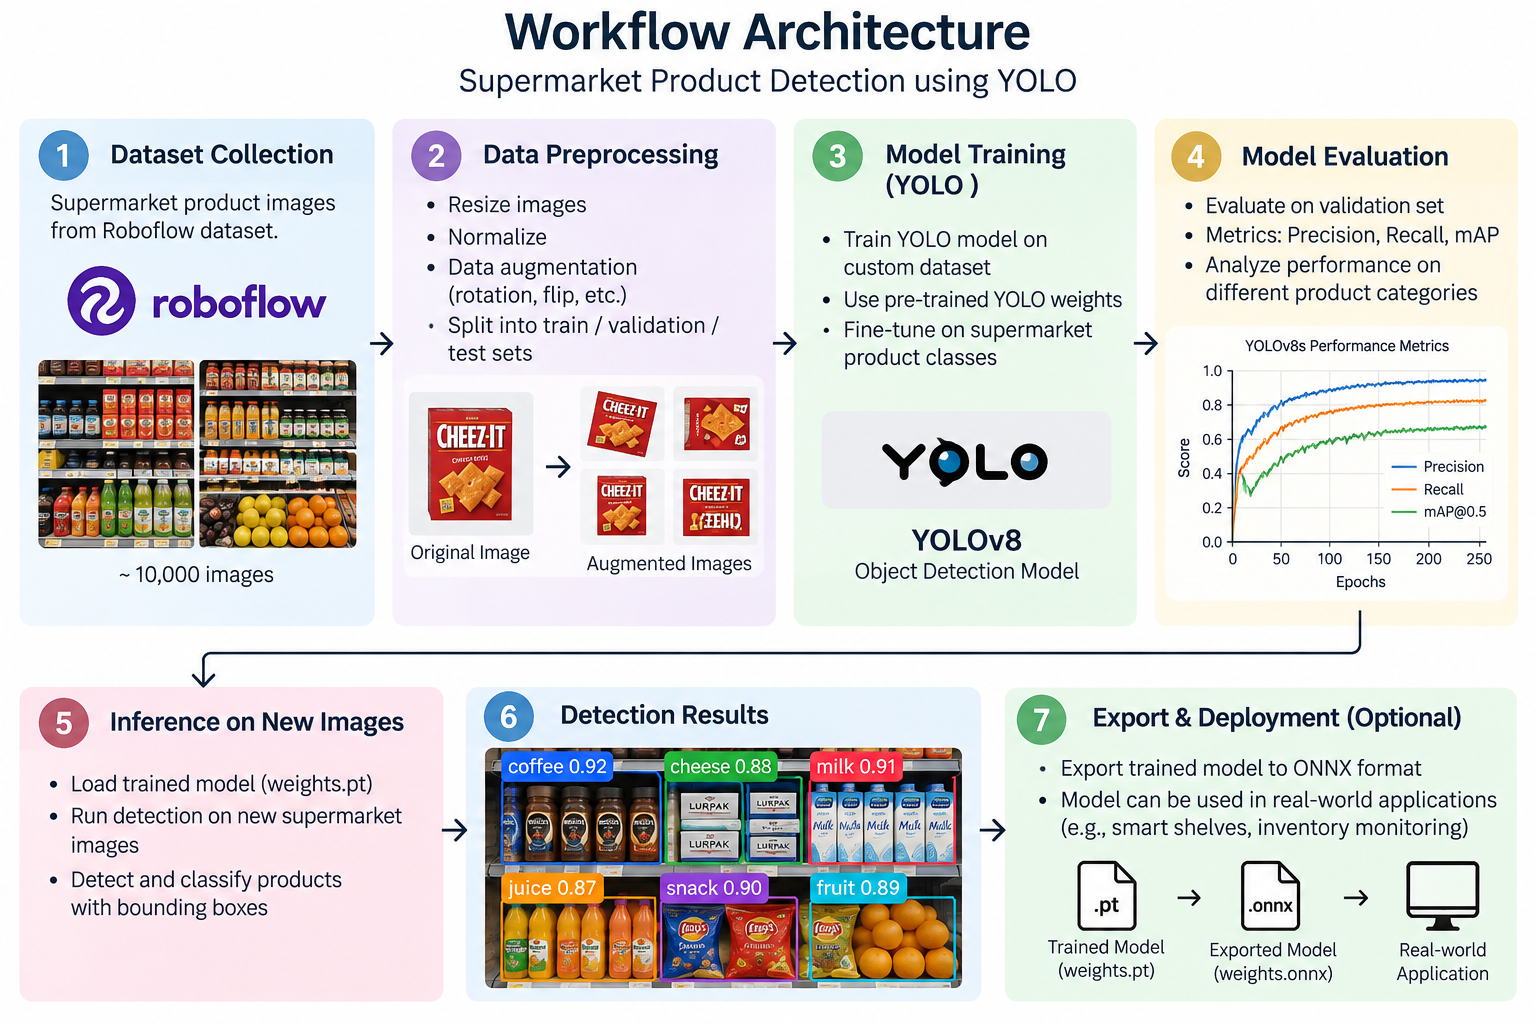
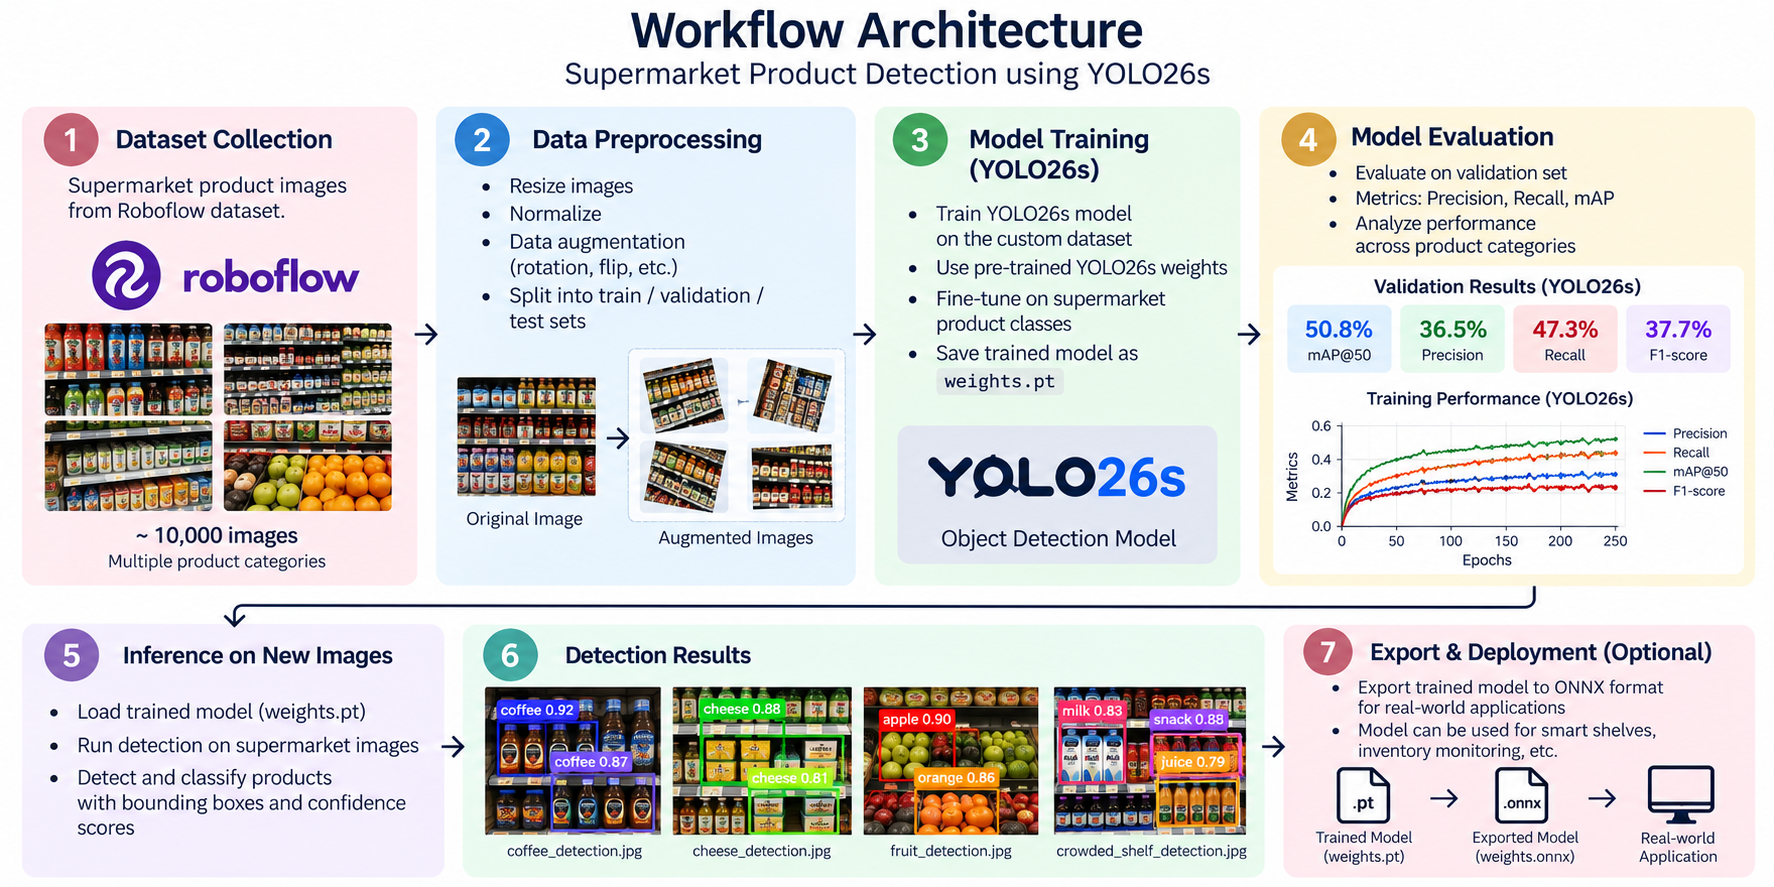
Add YOLO26s workflow architecture

diff --git a/README.md b/README.md
@@ -63,9 +63,10 @@ The model supports more than 100 supermarket-related product classes, including:
 
 ## Workflow / Architecture
 
-The following diagram illustrates the complete workflow of the supermarket product detection system, from dataset preparation to model inference and deployment.
+The following diagram illustrates the complete workflow of the supermarket product detection system using YOLO26s, from dataset preparation to model evaluation, inference, and ONNX deployment.
 
 ![Workflow Architecture](images/workflow_architecture.png)
+
 
 ---
 
